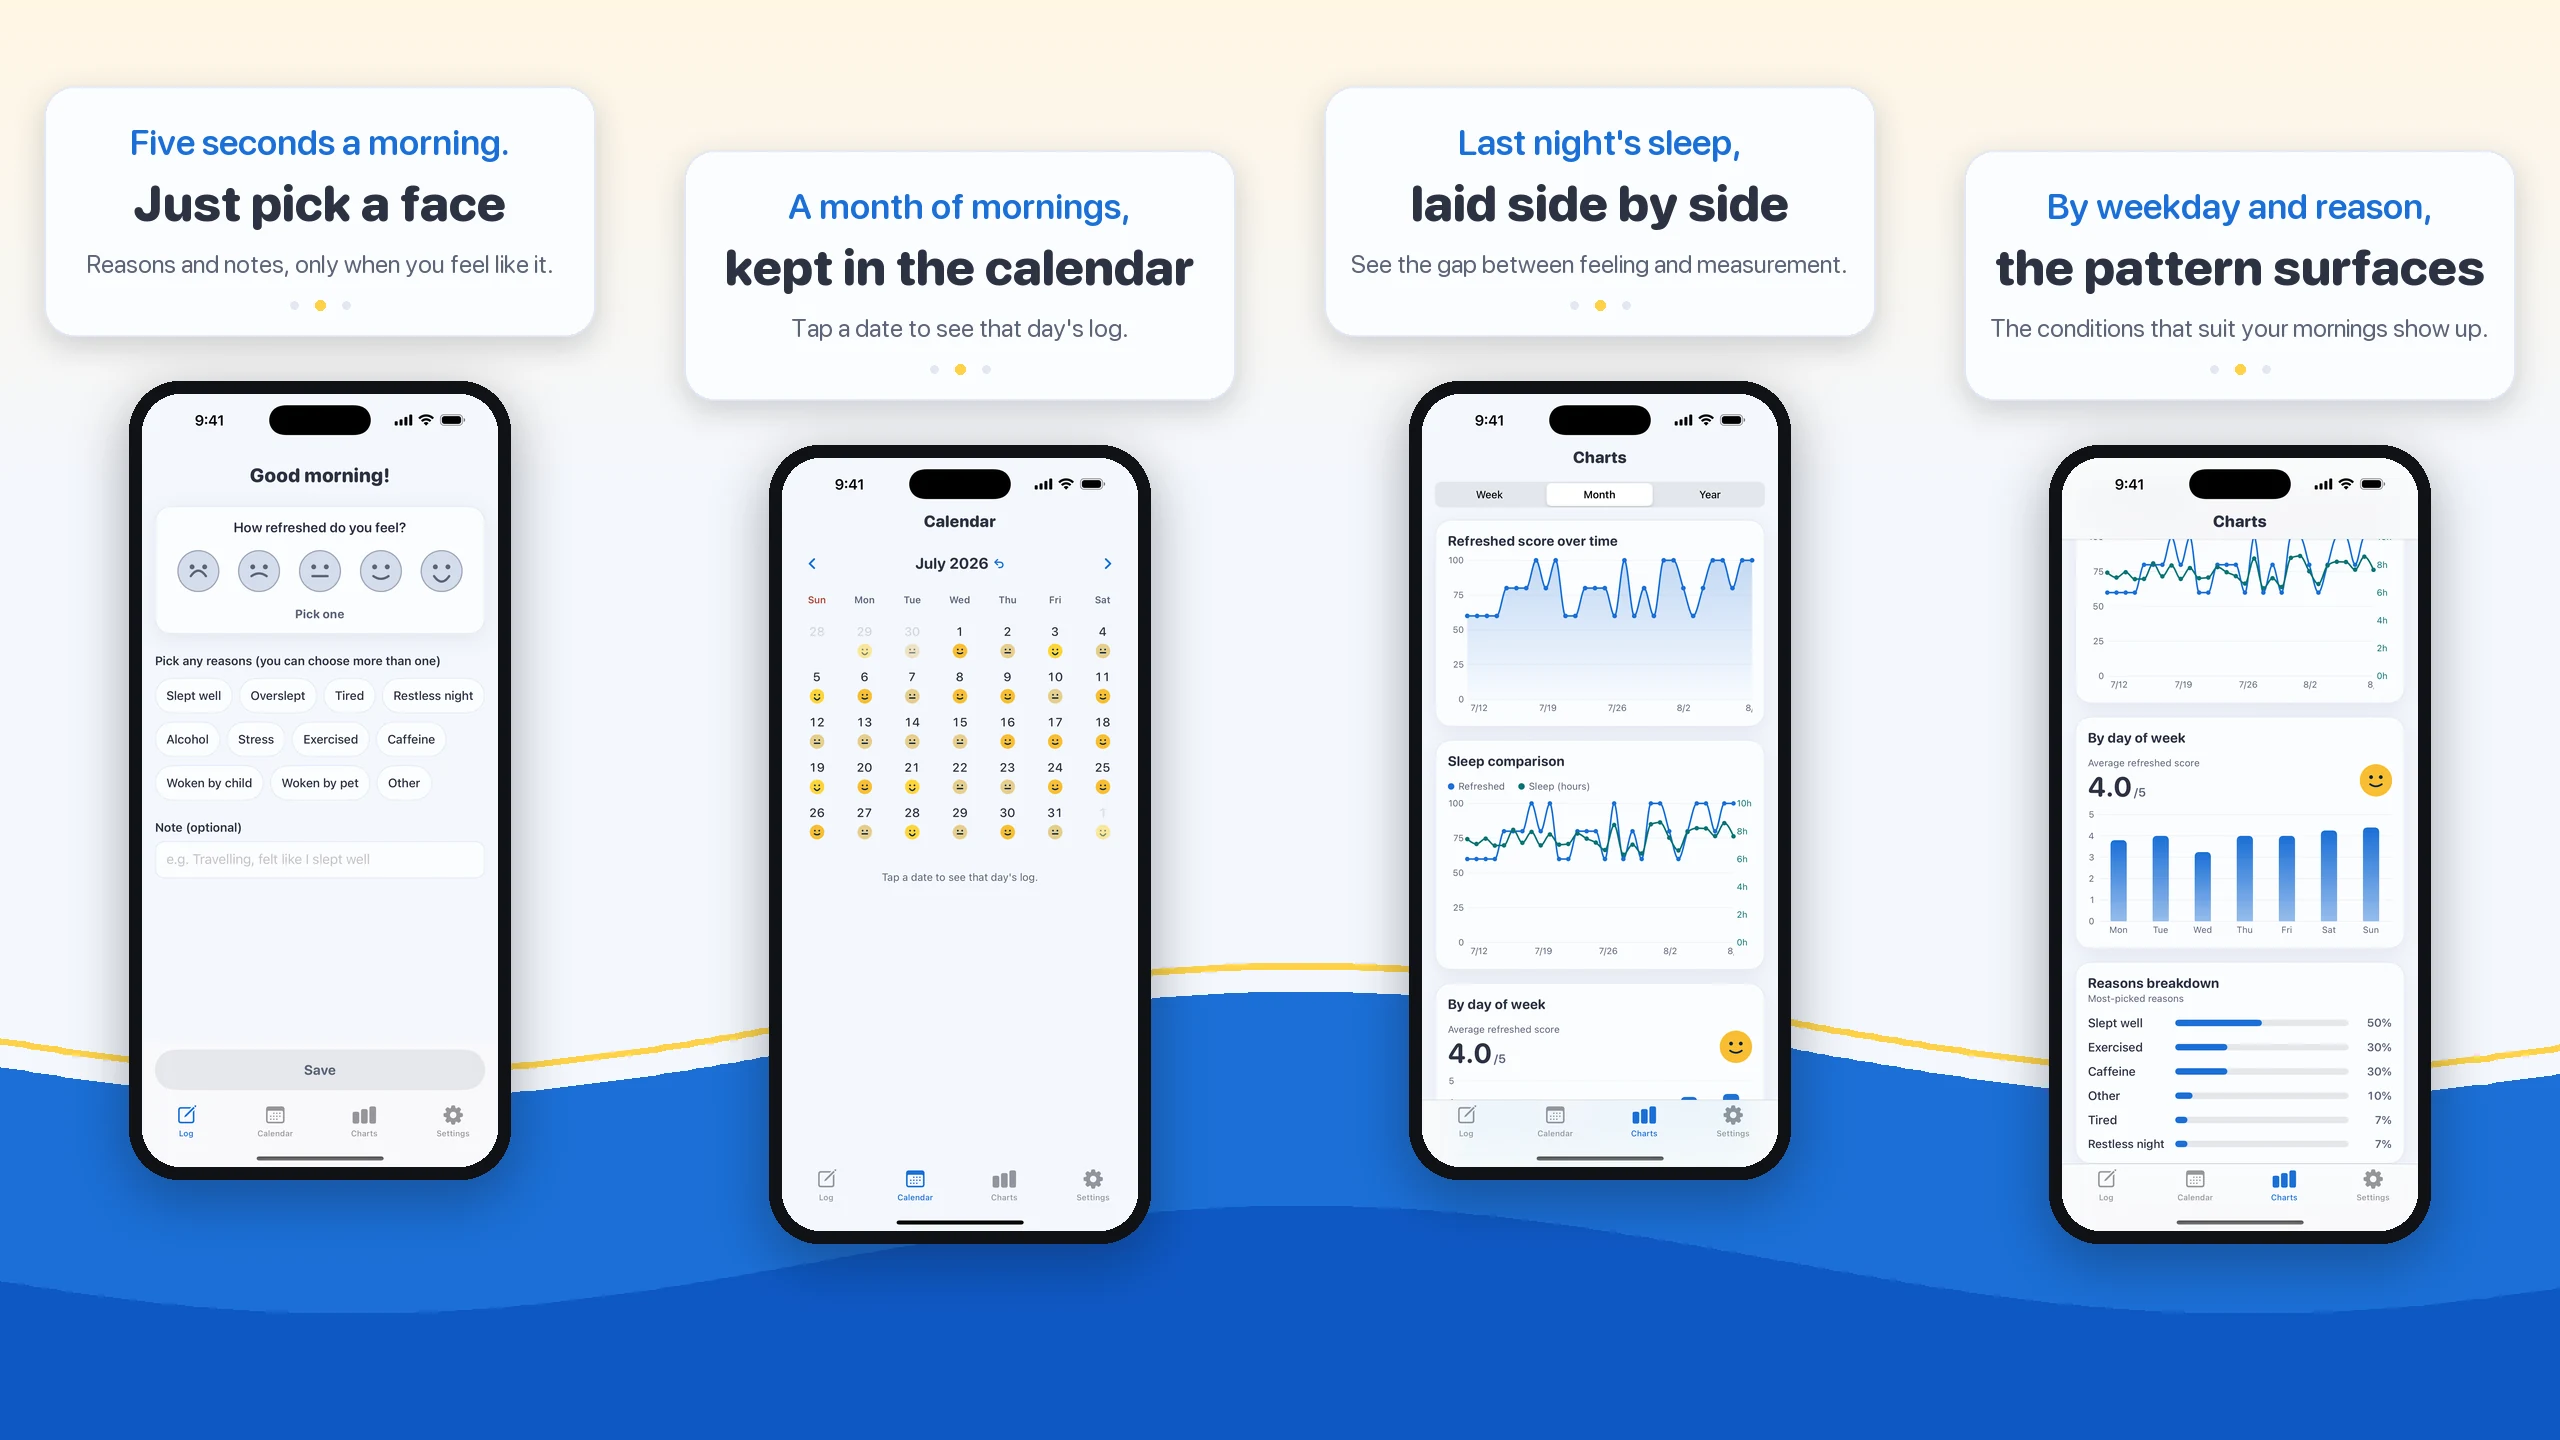
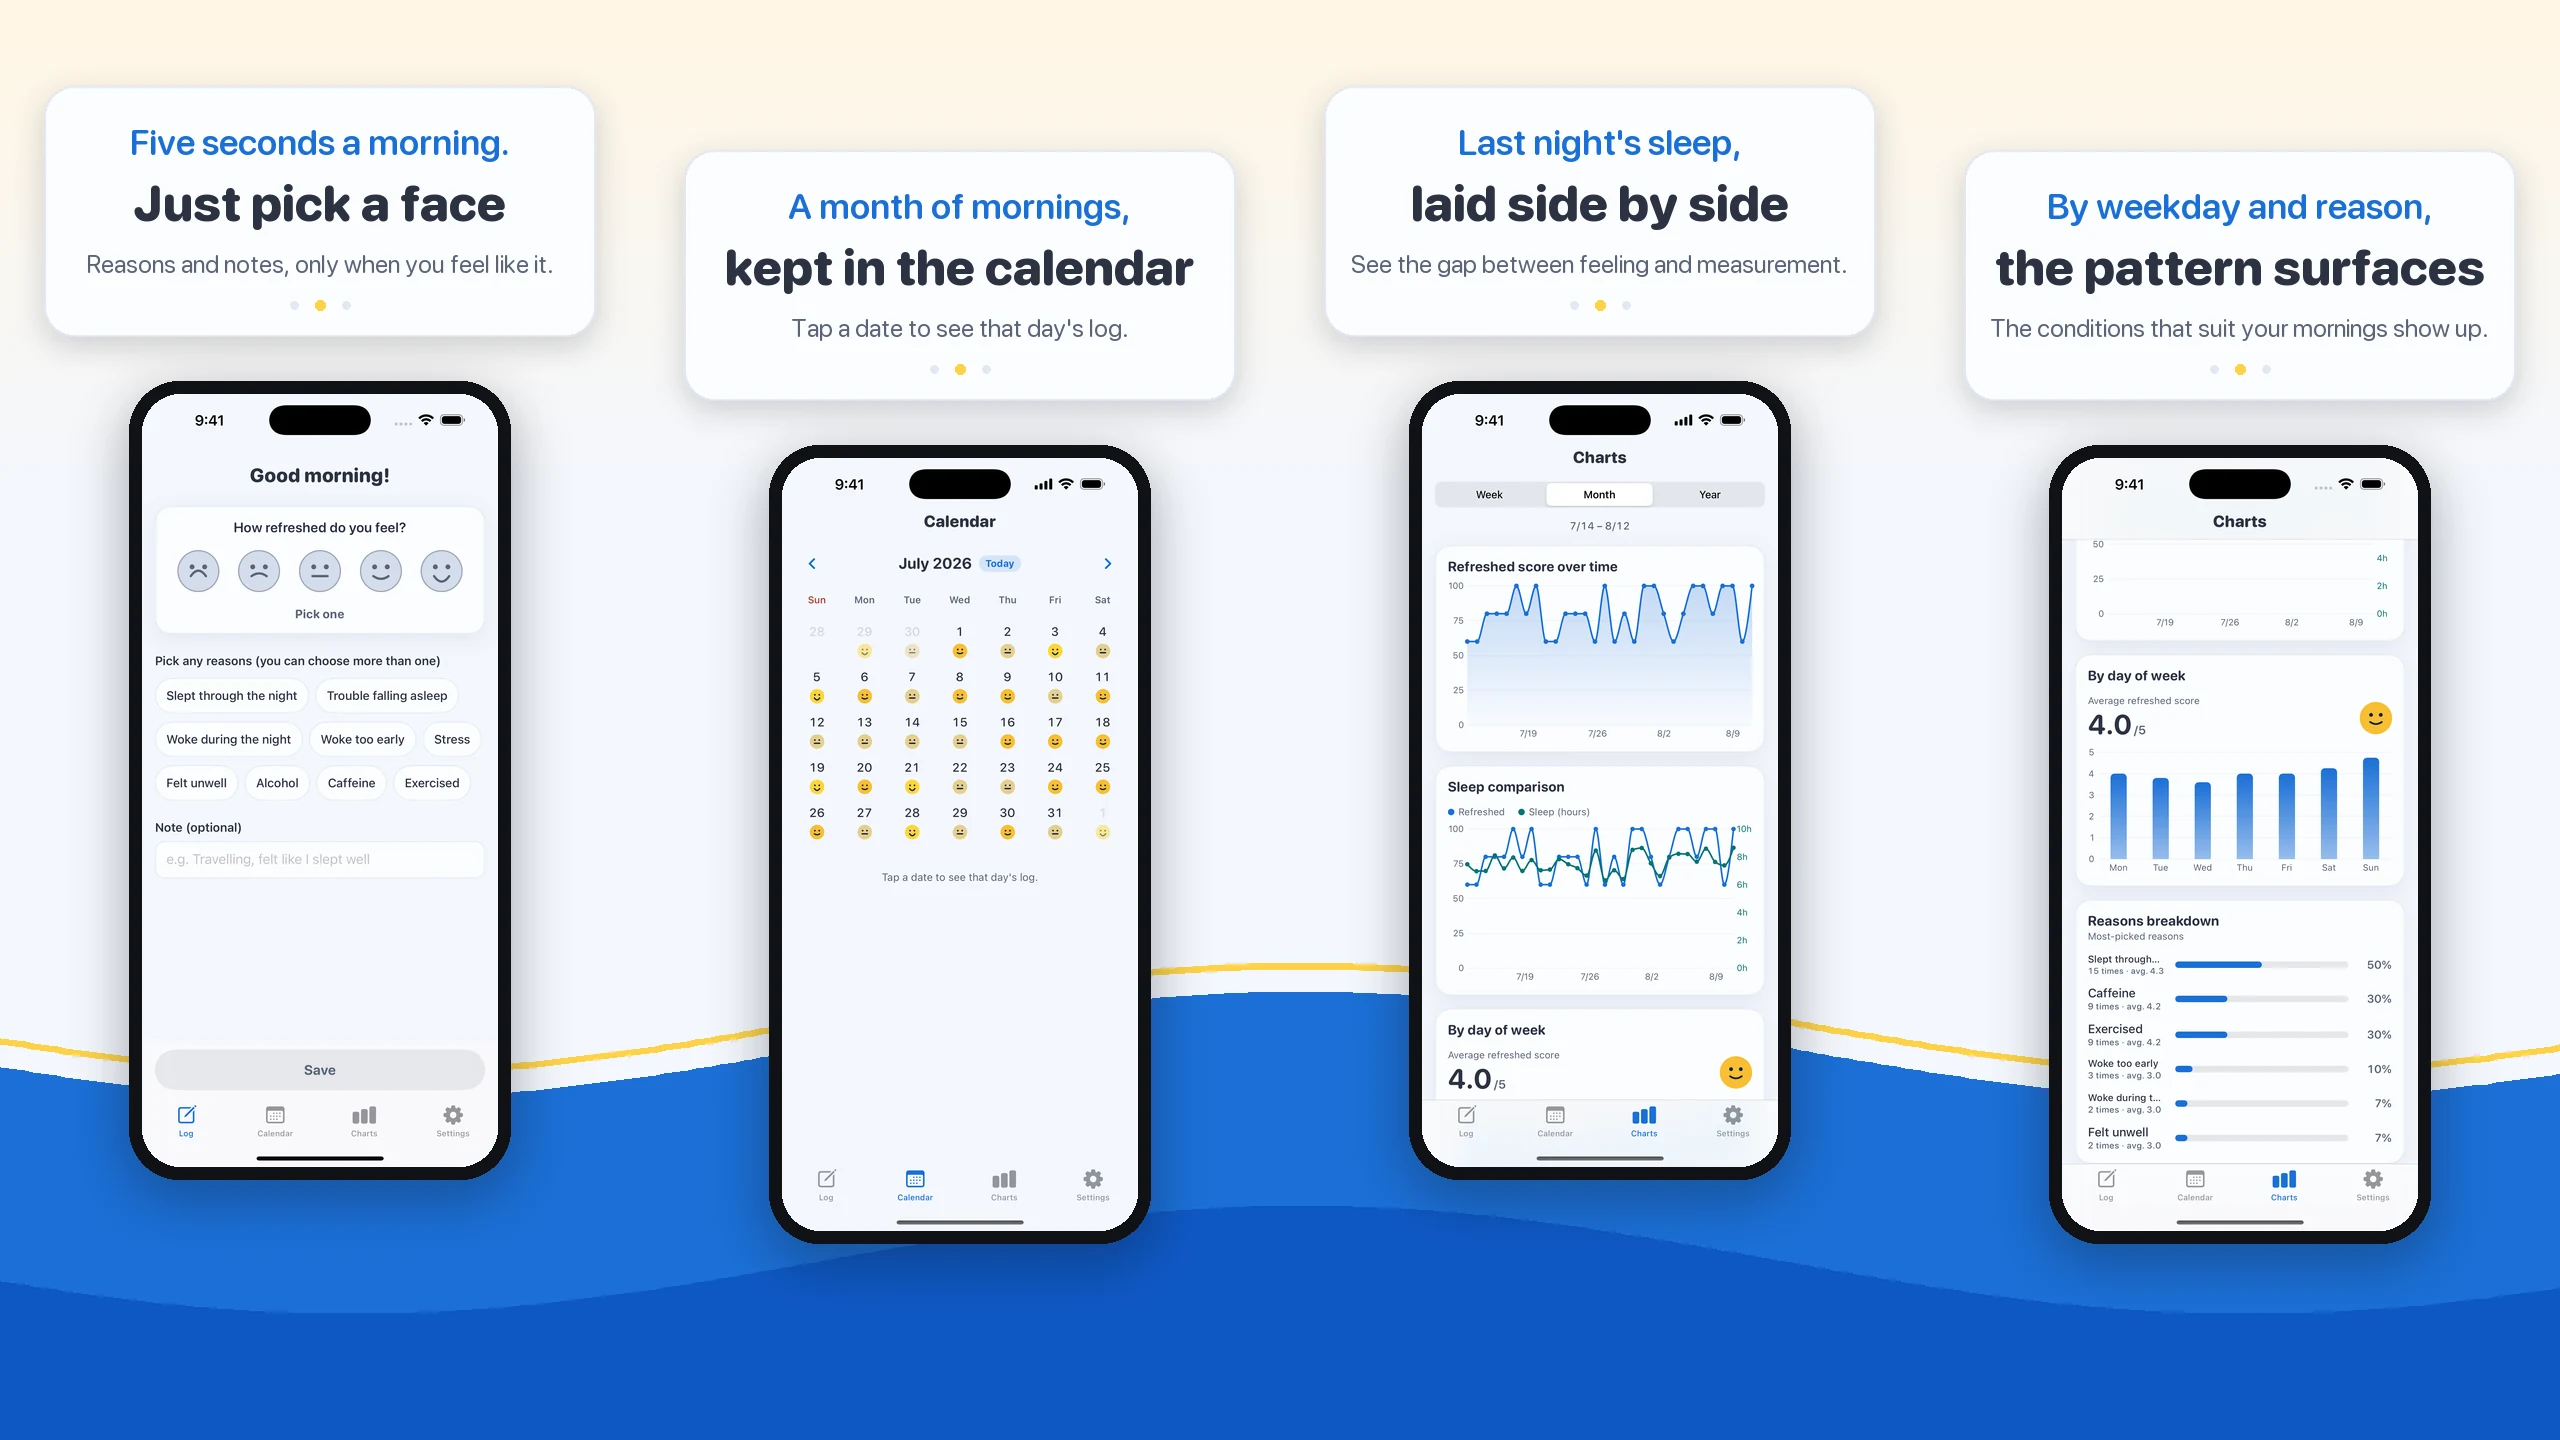
fix(asalog): 4画面の紹介画像を撮り直し、プライバシーポリシーの失効を直す
## 画像（日英 × @1x/@2x の4本）
朝ログの 2026-08-12 のバッチ（理由9個＋CRUD・詳細記録の廃止・今日バッジ・期間見出し・
要因別に平均）で**中身が実装と食い違っていた**ので撮り直した。直った点:

| パネル | 前 | 後 |
|---|---|---|
| ①記録 | 旧11チップ（よく眠れた／寝坊／その他 等） | 新9チップ（朝まで眠れた／寝つきが悪かった 等） |
| ②カレンダー | ヘッダに `↺` アイコン | 「今日」バッジ |
| ③月グラフ | 期間見出しなし | 「7/14〜8/12」 |
| ④要因別分析 | 旧理由・回数と平均なし | 新理由＋「15回・平均4.3」 |

意匠は `shots/make_lp_image.py` が持っているので寸法・配置は変えていない（パネル境界も不変）。

## プライバシーポリシー
`privacy.html` §Apple Health が「用途は…グラフでの比較と、**その日の記録の詳細表示**——だけです」と
書いていたが、**その画面は廃止した**し、睡眠時間はそこに出ていなかった。
→「グラフでの比較と、**カレンダーで選んだ日のサマリー表示**」に日英とも直した。

🤖 Generated with [Claude Code](https://claude.com/claude-code)

https://claude.ai/code/session_019ct3yZqDSCAsPweYGXZ2r3

diff --git a/asalog/privacy.html b/asalog/privacy.html
@@ -70,7 +70,7 @@
   <p>本アプリの有料機能（朝ログ Pro）の購入・復元は Apple の App Store を通じて行われ、購入・サブスクリプションの有効状態の管理に課金基盤サービス「RevenueCat」を利用します。これにより、購入状態などの情報が RevenueCat で処理されます。クレジットカード番号などのお支払い情報は Apple が取り扱い、当方は受け取りません。購入の管理は匿名の識別子で行い、氏名・メールアドレスなどの個人情報とは結び付けていません。なお、RevenueCat は米国の事業者が提供するサービスです。</p>
 
   <h2>5. Apple Health（睡眠時間）について</h2>
-  <p>本アプリは、利用者が設定で連携をオンにし、かつ端末の「ヘルスケア」で許可した場合に限り、Apple Health から<strong>睡眠時間のデータを読み取ります</strong>。読み取り専用で、Apple Health への書き込みは一切行いません。用途は、読み取った睡眠時間を目覚めの記録と組み合わせて表示すること——グラフでの比較と、その日の記録の詳細表示——だけです。</p>
+  <p>本アプリは、利用者が設定で連携をオンにし、かつ端末の「ヘルスケア」で許可した場合に限り、Apple Health から<strong>睡眠時間のデータを読み取ります</strong>。読み取り専用で、Apple Health への書き込みは一切行いません。用途は、読み取った睡眠時間を目覚めの記録と組み合わせて表示すること——グラフでの比較と、カレンダーで選んだ日のサマリー表示——だけです。</p>
   <p>読み取った睡眠時間は、記録の一部として利用者の端末内にのみ保存されます。当方や第三者のサーバーに送信することはなく、<strong>広告・マーケティングの目的で利用することも、第三者に提供・販売することもありません。</strong>また、第3項の利用状況の計測にも含めません。許可は端末の「設定 &gt; プライバシーとセキュリティ &gt; ヘルスケア」または「ヘルスケア」アプリからいつでも変更でき、本アプリの設定で連携をオフにすることもできます。</p>
 
   <h2>6. データのバックアップ</h2>

diff --git a/asalog/en/privacy.html b/asalog/en/privacy.html
@@ -70,7 +70,7 @@
   <p>Purchases and restores of the App's paid features (AsaLog Pro) are handled through Apple's App Store, and we use the subscription infrastructure service RevenueCat to manage purchases and entitlement status. Information such as your purchase status is therefore processed by RevenueCat. Payment details such as credit card numbers are handled by Apple and are never received by us. Purchases are managed under an anonymous identifier and are not linked to personal information such as your name or email address. Please note that RevenueCat is a service provided by a company based in the United States.</p>
 
   <h2>5. Apple Health (sleep)</h2>
-  <p>Only if you turn the connection on in the App's settings and grant permission in the device's Health app, the App <strong>reads sleep data from Apple Health</strong>. It is read-only; the App never writes anything back to Apple Health. It is used for one purpose: showing the sleep it reads alongside your morning logs — compared in a chart, and on that day's log detail.</p>
+  <p>Only if you turn the connection on in the App's settings and grant permission in the device's Health app, the App <strong>reads sleep data from Apple Health</strong>. It is read-only; the App never writes anything back to Apple Health. It is used for one purpose: showing the sleep it reads alongside your morning logs — compared in a chart, and on the summary for the day you select in the calendar.</p>
   <p>The sleep figures that are read are stored on your device only, as part of your logs. They are never transmitted to servers operated by us or by third parties, and they are <strong>never used for advertising or marketing purposes, nor provided or sold to third parties.</strong> They are also excluded from the usage measurement in section 3. You can change the permission at any time in Settings &gt; Privacy &amp; Security &gt; Health, or in the Health app, and you can turn the connection off in the App's settings.</p>
 
   <h2>6. Data backup</h2>
